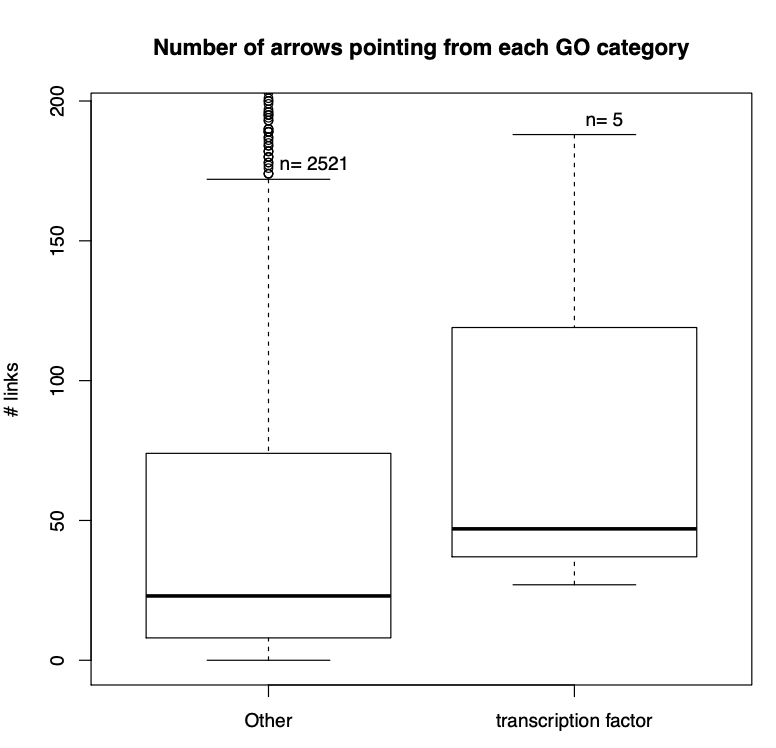
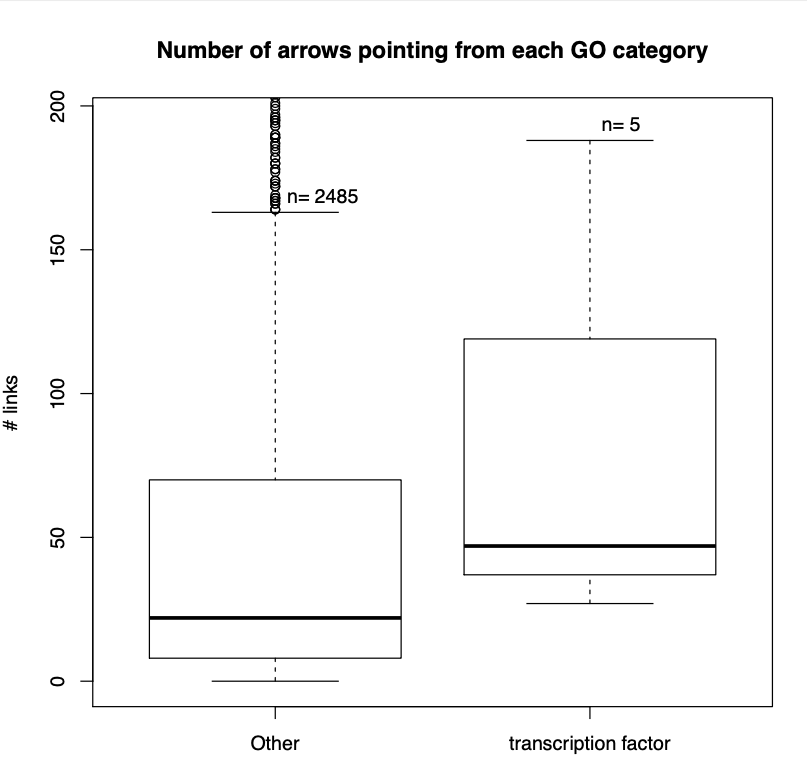
changed figures
previously didn't have the GO terms for all the genes

diff --git a/summary.md b/summary.md
@@ -289,7 +289,7 @@ Only a few of the clusters have very high modularity
 |:--:|
 | *10 clusters that have the highest connectivity* |
 
-There's still only one bir cluster with no subclusters
+There's still only one cluster with no subclusters
 
 Comparing with the previous network plot, we can see that the clusters with high connectivity are all interconnected and have a lot of links going out of them. The clusters in the highest modularity network plot are mostly unconnected.
 
@@ -297,7 +297,10 @@ Comparing with the previous network plot, we can see that the clusters with high
 ## 2020-02-05 -- 2020-02-12
 
 In order to find the GO terms associated with my genes I used YeastMine (Balakrishnan et al., 2012) (https://yeastmine.yeastgenome.org/yeastmine/begin.do). Since I was not being able to do it in R, using the YeastMine API, I used python to run my queries. To be able to run the queries with python, first I needed to create and account and request an API key. Since you can generate python code from the website, I used it as a guide and added/ removed parameters to get what I needed.
-From YeastMine I got the GO code and term for my genes, as well as evidence code.
+From YeastMine I got the GO code and term for my genes, as well as if it belongs to a biological process or other, and the evidence code for the annotation.
+
+-------
+USE THE NEW TABLE FROM YEASTMINE
 
 > [GO analysis](https://github.com/CarolinaPB/DegreeProject/blob/master/code/2020-02-07/07_02_2020_GO_analysis.Rmd)
 
@@ -362,5 +365,7 @@ From the 4518 "biological process" GO terms tested, 117 were found to be overenr
 
 From the 4440 "biological process" GO terms tested, 123 were found to be overenriched (at p-value 0.05)
 
-
+#TODO show graphs and then go to the conditional hypergeo
 Figure showing the relationships among GO terms tested using the hypergeometric test:
+
+------
